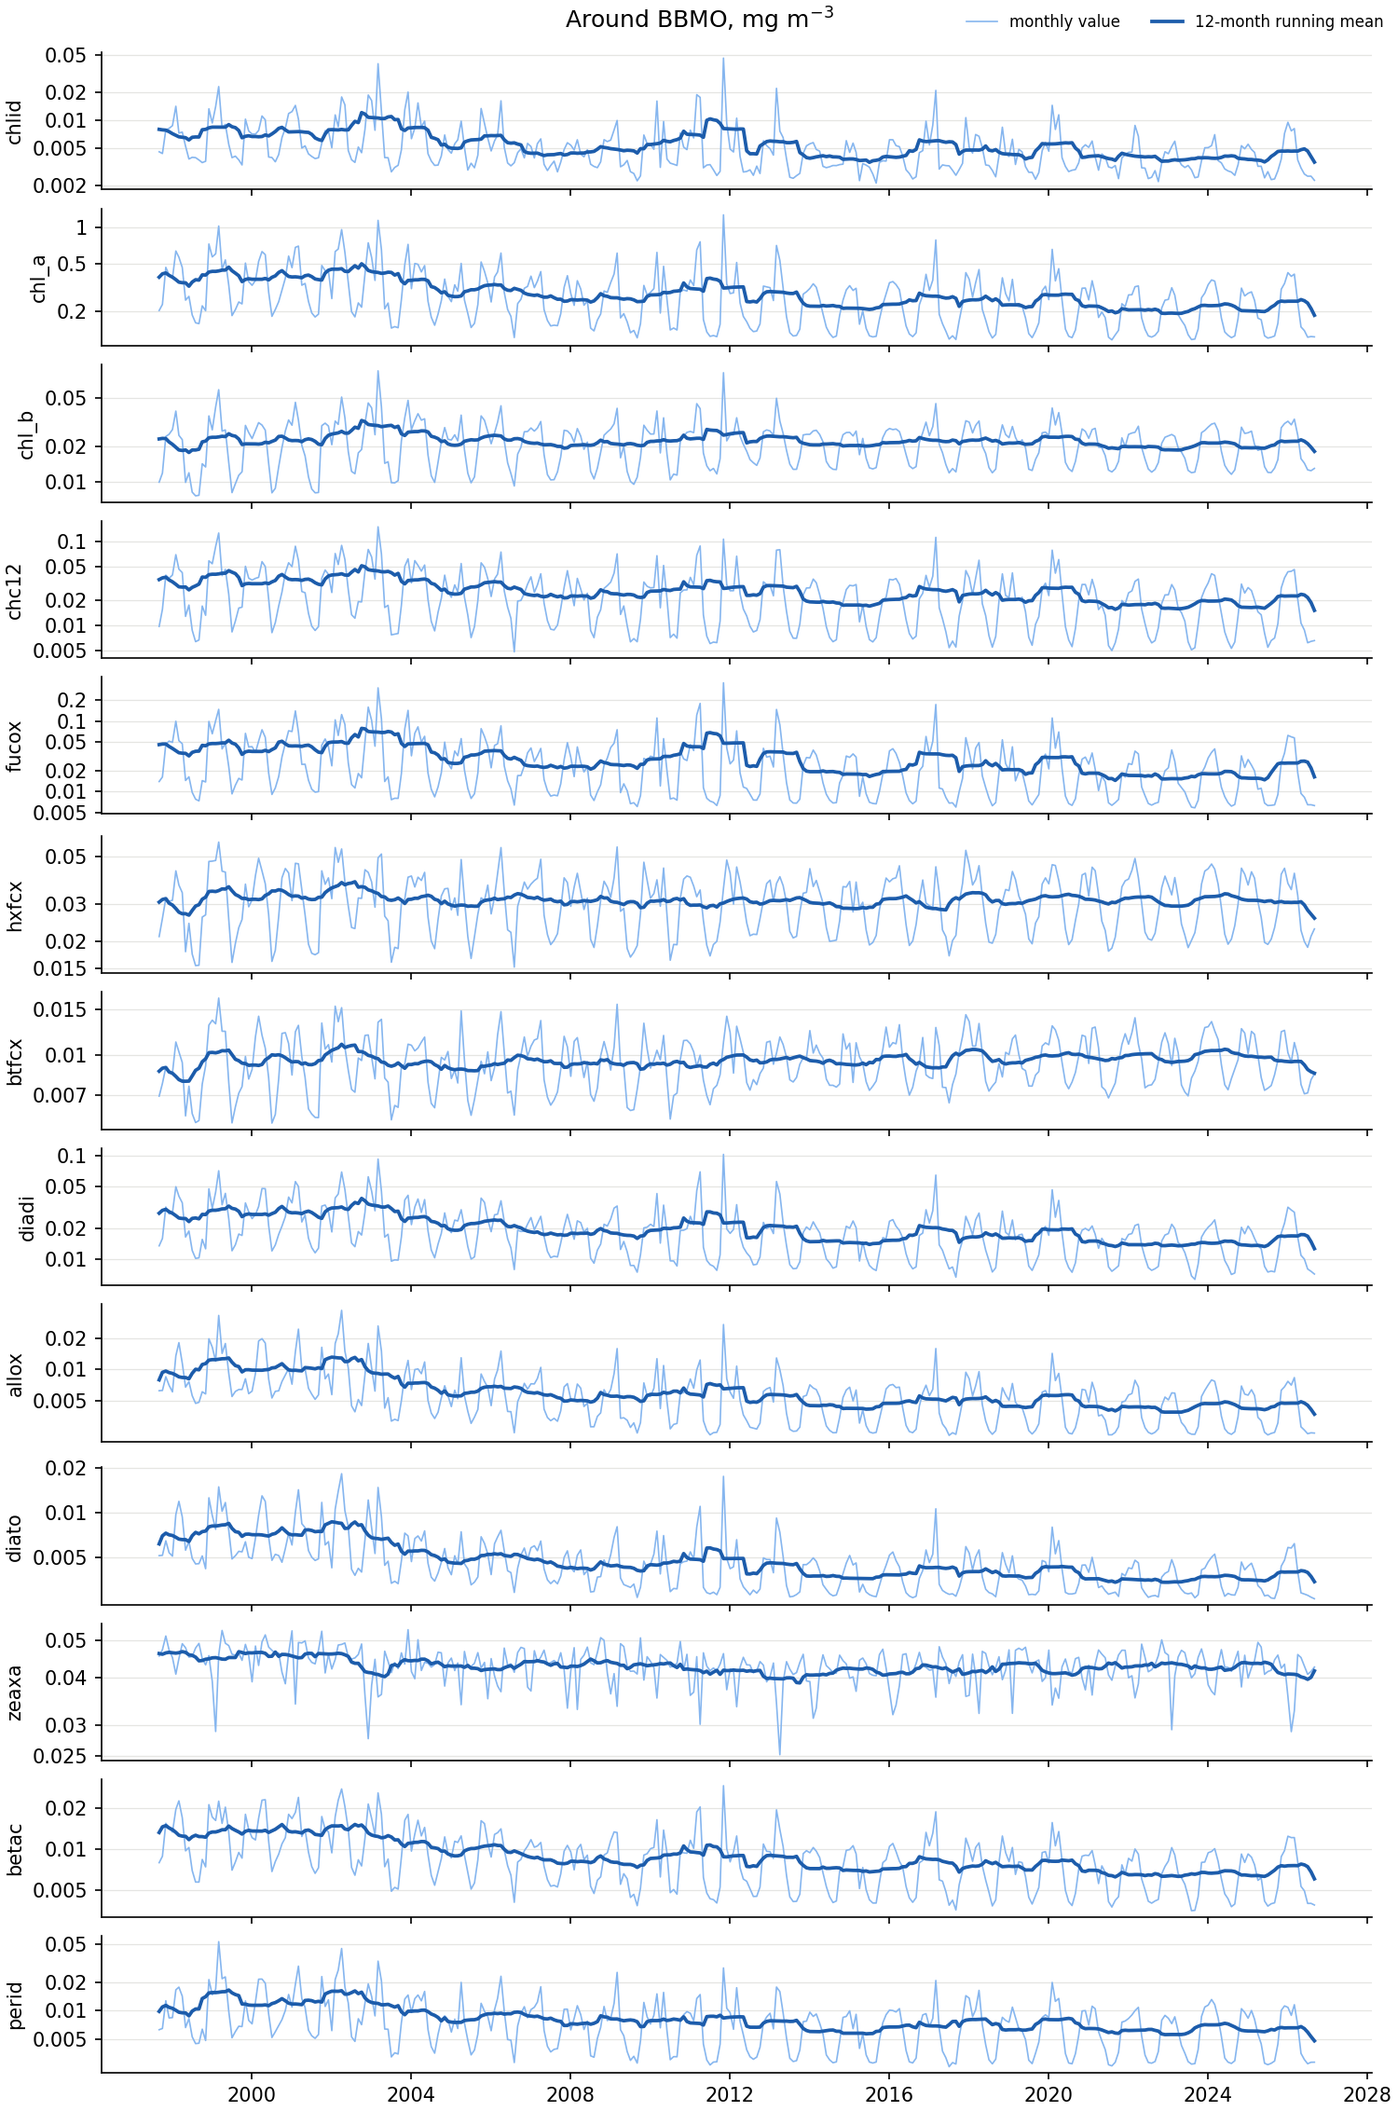
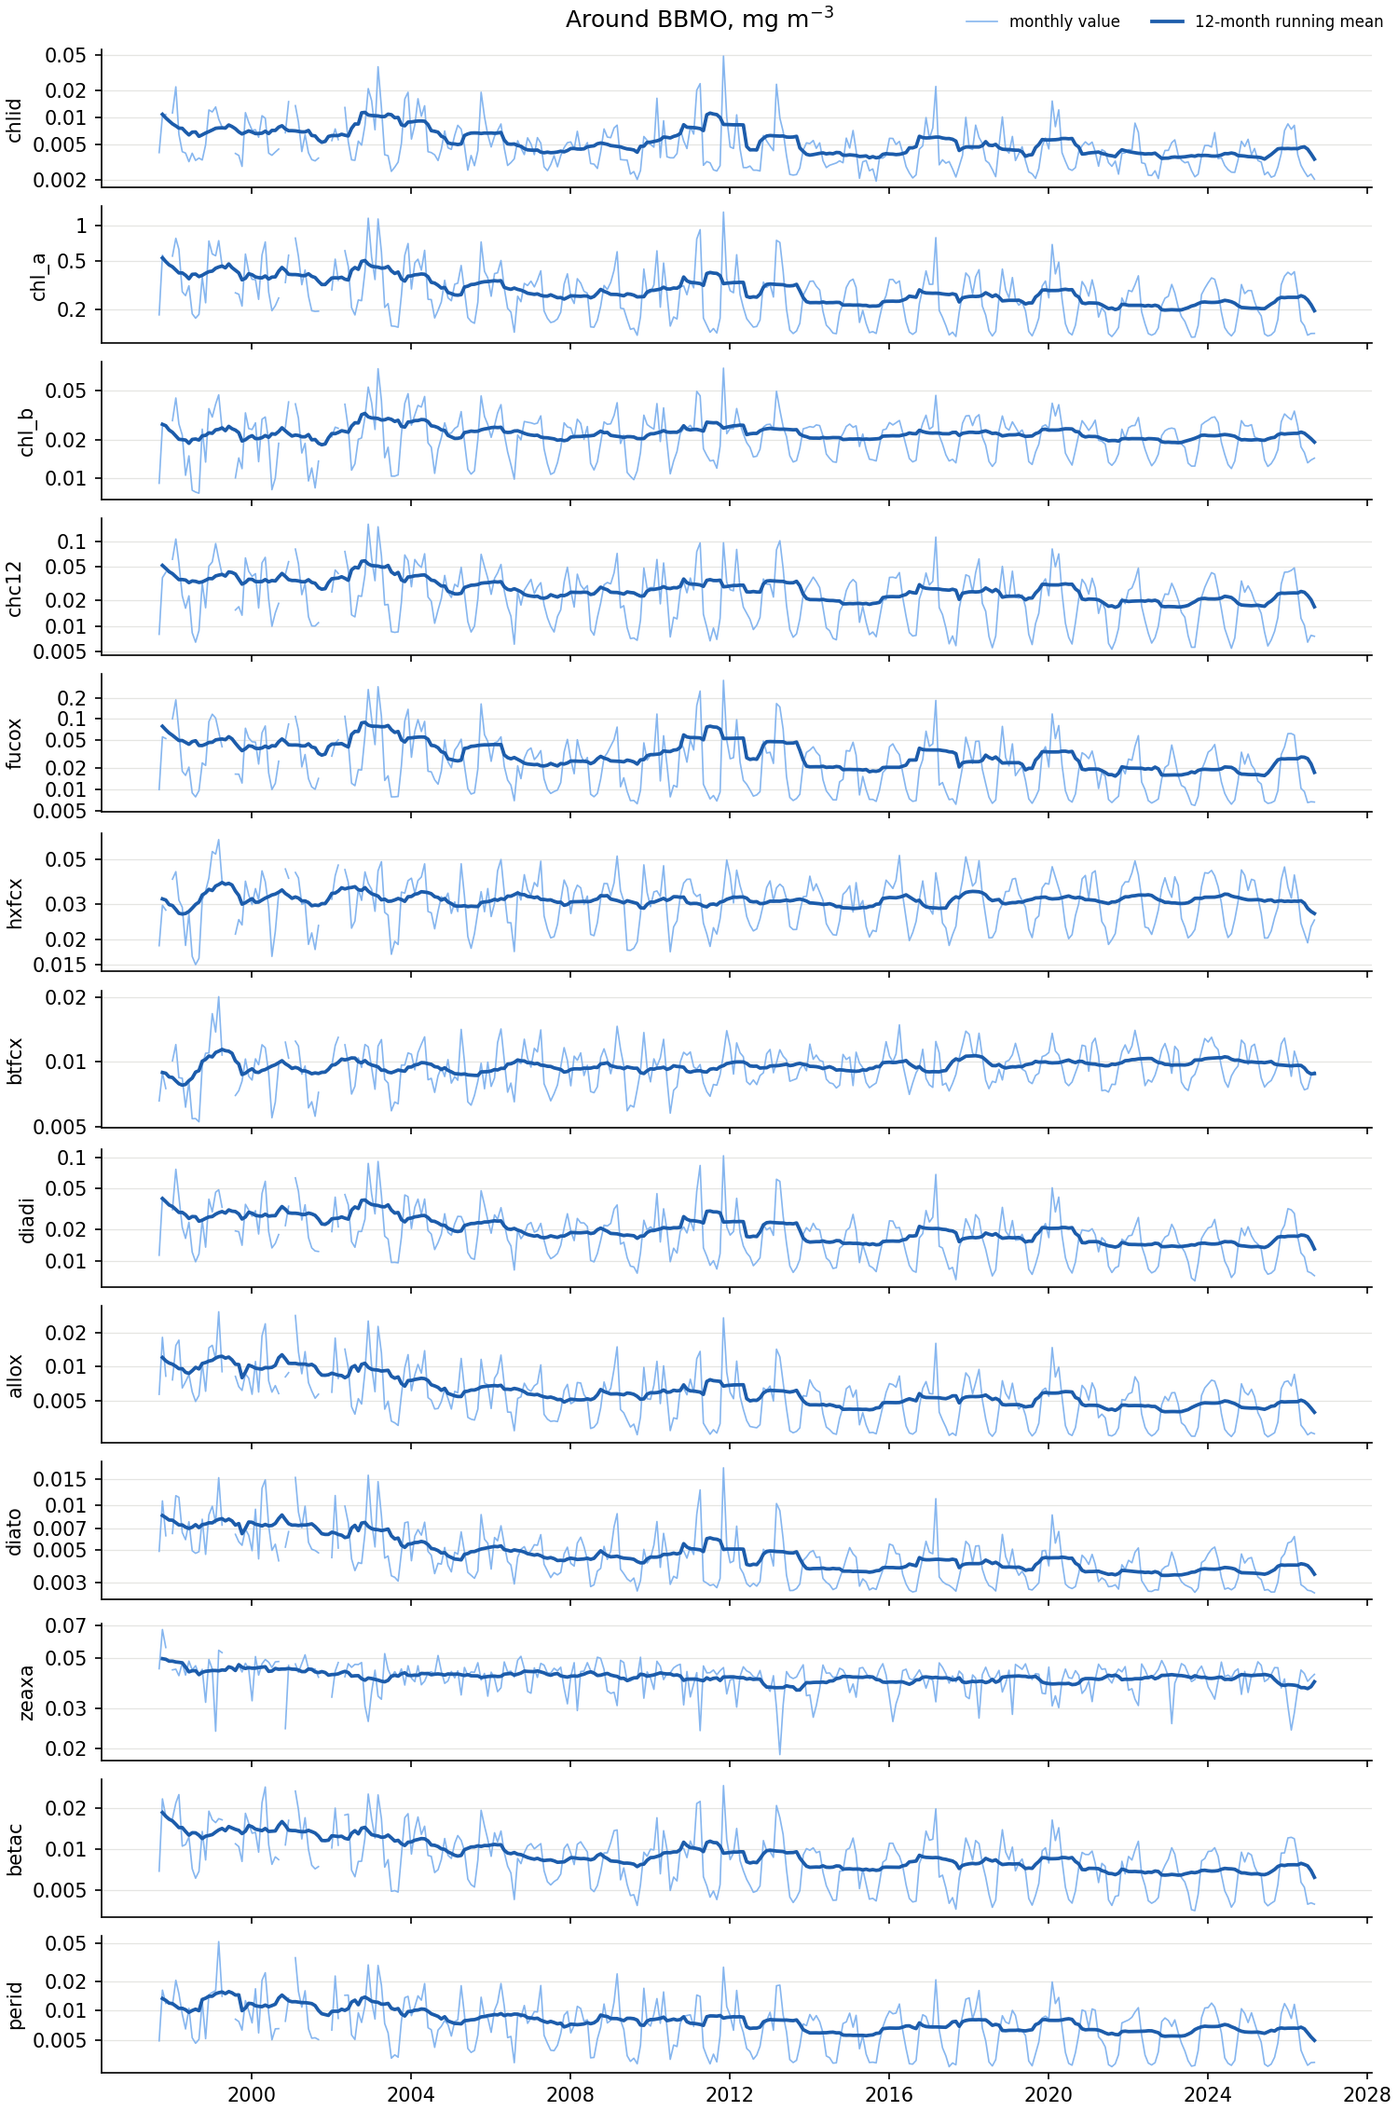
Update the analysis and the README with the new results

diff --git a/task4/README.md b/task4/README.md
@@ -23,14 +23,15 @@ limit the trends and the composition signal.
 ## 1. Data and methods
 
 - **Areas**: two regions of monthly maps, the NW Mediterranean (40.5–43.5 N, 1.5–5.5 E) and the
-  Balearic Islands (38.55–40.2 N, 1.1–4.5 E); and four stations, each with the 11 × 9 pixels (about
-  11 × 10 km) around it: BBMO (Blanes Bay), SOLA and MOLA (Banyuls-sur-Mer, coastal and offshore)
+  Balearic Islands (38.55–40.2 N, 1.1–4.5 E); and four stations, each with the 5 × 5 pixels (about
+  5 × 5 km) around it: BBMO (Blanes Bay), SOLA and MOLA (Banyuls-sur-Mer, coastal and offshore)
   and VIDA (Vida buoy, Gulf of Trieste).
 - **Pigments**: the 13 pigments of the Task 1 model fine-tuned with satellite matchups, on the
   monthly means of the daily 1 km multi-sensor Rrs and on the daily cubes of the stations
   ([Task 1](../task1/README.md)), checked against HPLC samples at the stations.
 - **Plankton groups**: Synechococcus and Bathycoccus (pico, psbO), the PETRIMED models (Ramond et
-  al., 2026) that hold from the satellite pigments once harmonized ([Task 2](../task2/README.md)).
+  al., 2026) that hold from the satellite pigments once their composition is corrected
+  ([Task 2](../task2/README.md)).
 - **Statistics**: months averaged from fewer than 3 days are left out; a region's value is the
   median of its pixels, a station's the median of its pixels and days; trends are log-linear fits
   of the annual values from 2003 to 2025 (see 3 for why 2003); the principal components are those
@@ -78,9 +79,9 @@ are the stations.*
 
 **2.3. Winter around the Balearic Islands, late winter in Catalonia, autumn in the Gulf of
 Trieste.** At BBMO, SOLA and MOLA almost every pigment peaks between January and March and is
-lowest in July–August, except zeaxanthin. Fucoxanthin varies 4 to 16 times over the year,
+lowest in July–August, except zeaxanthin. Fucoxanthin varies 4 to 18 times over the year,
 zeaxanthin only 1.2 to 1.4 times (peak in May), so the zeaxanthin share of chlorophyll a triples in
-summer (BBMO 0.11 → 0.32) while the fucoxanthin share halves. The BBMO HPLC series shows the same
+summer (BBMO 0.11 → 0.31) while the fucoxanthin share halves. The BBMO HPLC series shows the same
 winter–spring maxima and summer minima (Nunes et al., 2018).
 
 Around the Balearic Islands the pigments peak in January, two months before the NW Mediterranean
@@ -114,10 +115,10 @@ the Balearic Islands.** Trends from 2003 to 2025, in % per decade (n.s.: not sig
 |---|---|---|---|
 | NW Mediterranean (region) | −8 | −18 | +5 |
 | Balearic Islands (region) | −5 | −12 | +2 |
-| BBMO | −19 | −32 | 0 (n.s.) |
-| SOLA | −17 | −22 | −2 (n.s.) |
-| MOLA | −9 | −19 | +4 |
-| VIDA | −4 (n.s.) | +2 (n.s.) | −7 |
+| BBMO | −19 | −32 | −2 (n.s.) |
+| SOLA | −19 | −24 | −4 (n.s.) |
+| MOLA | −10 | −20 | +4 |
+| VIDA | −4 (n.s.) | +3 (n.s.) | −7 |
 
 Chlorophyll a and fucoxanthin fall in both regions and at the three Catalan and French stations, most
 at the coast (BBMO, SOLA) and least around the Balearic Islands; the decline is significant in
@@ -133,31 +134,32 @@ disagreement: Martínez-Fornos et al. find green algae falling, while the share 
 here rises slightly (4% per decade in the NW Mediterranean, 2% around the Balearic Islands).
 
 **2.5. VIDA: years set by the rivers, no trend.** Around VIDA the annual chlorophyll a varies from
-0.51 to 1.09 mg m⁻³. The lowest years, 2022 and 2023, follow the severe drought of 2022 in northern
-Italy, and the highest are 2001, 1998 and 2010: satellite chlorophyll in the north Adriatic follows
+0.49 to 1.10 mg m⁻³. The lowest years, 2022 and 2023, follow the severe drought of 2022 in northern
+Italy, and the highest are 2001, 1998 and 2000: satellite chlorophyll in the north Adriatic follows
 the river discharge (Vona et al., 2025). From 2003 to 2025 chlorophyll a has no significant trend
 (−4% per decade, p = 0.4), as Martínez-Fornos et al. (2026) find for the north Adriatic. The
 oligotrophication of the north Adriatic measured in situ (Mozetič et al., 2010) was strongest in the
-decade to 2007, so part of the drop of chlorophyll a between 1998–2002 and 2003–2007 here (−28%) may
+decade to 2007, so part of the drop of chlorophyll a between 1998–2002 and 2003–2007 here (−29%) may
 be real.
 
 **2.6. Plankton groups: Synechococcus follows low chlorophyll (provisional).** Of the PETRIMED
 plankton groups, only Synechococcus holds from the satellite pigments (Task 2). Around the three NW
-Mediterranean stations it peaks in July and is 2.4–2.6 times lower in winter, as observed at BBMO
-(peak in August), and its monthly values follow the satellite share of zeaxanthin (r = 0.56–0.71).
-But the satellite zeaxanthin barely varies (coefficient of variation 0.11–0.16 at the stations,
-against 0.43–0.59 for chlorophyll a), so its share is almost the inverse of chlorophyll a (r = −0.96
-to −0.97): the indicator is mostly a low-chlorophyll, oligotrophy signal. It holds because
+Mediterranean stations it peaks in July–August and is 1.7–3.3 times lower in December–March, as
+observed at BBMO (peak in August), and its monthly values follow the satellite share of zeaxanthin
+(r = 0.80–0.87). But the satellite zeaxanthin barely varies (coefficient of variation 0.14–0.18 at
+the stations, against 0.44–0.62 for chlorophyll a), so its share is almost the inverse of
+chlorophyll a (r = −0.96): the indicator is mostly a low-chlorophyll, oligotrophy signal. It holds because
 Synechococcus follows that signal too: at BBMO the observed Synechococcus goes with the HPLC share of
 zeaxanthin (r = 0.53) and against chlorophyll a (r = −0.28). Bathycoccus peaks in winter (November
 to April), like the prasinophytes at BBMO (Nunes et al., 2018), but the maps put it offshore rather
-than on the coast, so only its seasonal cycle is usable. From 2003 to 2025 Synechococcus does not
-change over the regions (+1% per decade in the NW Mediterranean, 0% around the Balearic Islands)
-and Bathycoccus falls 3–4% per decade (significant in the NW Mediterranean only), while at BBMO
-Synechococcus falls 16% per decade. At VIDA, Synechococcus peaks in May and goes against the
-zeaxanthin share (r = −0.66), a sign that the models, made in the NW Mediterranean, do not hold
-there. The VIDA metabarcoding of [Task 3](../task3/README.md) agrees: the observed share of
-Synechococcus is lower in May than in March, July and autumn.
+than on the coast, and even its seasonal cycle is only weakly checked (r = 0.34 at BBMO). From
+2003 to 2025 Synechococcus rises 2% per decade in the NW Mediterranean and 4% at MOLA, and
+Bathycoccus falls 5% per decade in the NW Mediterranean; around the Balearic Islands neither
+changes significantly. These trends change with the details of the method (with the earlier
+window and correction, Synechococcus fell 16% per decade at BBMO, against +3% now), so they are
+not robust, unlike the seasonal cycle. At VIDA, Synechococcus peaks in June and does not follow the
+zeaxanthin share (r = −0.26): the models, made in the NW Mediterranean, do not hold there, as the
+VIDA metabarcoding of [Task 3](../task3/README.md) confirms.
 
 <p>
   <img src="report/psts_nw_mediterranean_periods.png" width="49%"
@@ -171,8 +173,8 @@ four periods (left) and monthly around BBMO (right).*
 
 ## 3. Limits
 
-- *A step in 2002–2003.* From 1998–2002 to 2003–2007, chlorophyll a drops 12–28% at the four
-  stations (alloxanthin up to 44%), and offshore zeaxanthin jumps in both regions (+17% for the
+- *A step in 2002–2003.* From 1998–2002 to 2003–2007, chlorophyll a drops 13–29% at the four
+  stations (alloxanthin up to 46%), and offshore zeaxanthin jumps in both regions (+17% for the
   regional median in the NW Mediterranean, +11% around the Balearic Islands). It coincides with
   MODIS-Aqua and MERIS joining SeaWiFS, despite the inter-sensor correction of the product (Volpe et
   al., 2019), so the trends above start in 2003.
@@ -182,13 +184,14 @@ four periods (left) and monthly around BBMO (right).*
   does a quarter of the NW Mediterranean summer: clear summer waters are overestimated and their
   trends damped.
 - *Composition at the coast.* Against the HPLC samples of the stations (Task 1), the satellite
-  chlorophyll a follows well (r = 0.78, R² = 0.33) but zeaxanthin does not (r = −0.04), the
+  chlorophyll a follows well (r = 0.77, R² = 0.39) but zeaxanthin does not (r = −0.06), the
   haptophyte and pelagophyte pigments only weakly and at half their HPLC values or less (r =
-  0.37–0.45), and the highest values are missed: the composition signal of 2.1 is weaker at the
-  coast than the biomass signal. There are no HPLC samples around the Balearic Islands to check
-  them there.
-- *Few clear coastal pixels.* There are satellite data on 13% of the pixel-days around SOLA and 17%
-  around BBMO, against 26% at VIDA and 49% at MOLA.
+  0.36–0.43), and the highest values are missed: the composition signal of 2.1 is weaker at the
+  coast than the biomass signal. The concentrations at the coast are too low and vary less than in
+  situ, which damps trends and seasonal amplitudes without changing their sign or timing. There are no
+  HPLC samples around the Balearic Islands to check them there.
+- *Few clear coastal pixels.* There are satellite data on 7% of the pixel-days around SOLA (a
+  monthly value in 296 of 349 months) and 12% around BBMO, against 30% at VIDA and 49% at MOLA.
 
 <p align="center">
   <img src="report/nw_mediterranean_zeaxa_years.png" width="80%"

diff --git a/README.md b/README.md
@@ -20,7 +20,7 @@ them: those of [pigment-retrieval-from-olci](https://github.com/Kissyfur/pigment
 |---|---|---|---|
 | 1 | Pigment concentrations from radiometry | Model and paper; applied to the satellite record and checked against HPLC | [task1](task1/README.md) |
 | 2 | Plankton groups from pigments | PETRIMED models, tested away from SOLA and on satellite pigments; the biodiversity indicator is to come | [task2](task2/README.md) |
-| 3 | Plankton groups at VIDA from metabarcoding (about monthly, 2021–2023) | Data and description | [task3](task3/README.md) |
+| 3 | Plankton groups at VIDA from metabarcoding (about monthly, 2021–2023) | Data, description and validation of the chain of Tasks 1 and 2 | [task3](task3/README.md) |
 | 4 | Satellite radiometry → pigments → diversity, 1997 to today | Analysis and technical note (draft) | [task4](task4/README.md) |
 
 ## Files
@@ -29,7 +29,7 @@ them: those of [pigment-retrieval-from-olci](https://github.com/Kissyfur/pigment
 |---|---|---|---|---|
 | 1 | [task1/README.md](task1/README.md) | [download_monthly_means.py](task1/scripts/download_monthly_means.py), [station_matchups.py](task1/scripts/station_matchups.py), [predict_pigments.py](task1/scripts/predict_pigments.py), [hplc_check.py](task1/scripts/hplc_check.py) | [med_radiometry_monthly.yaml](task1/configs/med_radiometry_monthly.yaml), [station_matchups.yaml](task1/configs/station_matchups.yaml) | [task1/report](task1/report/) |
 | 2 | [task2/README.md](task2/README.md) | [export_models.R](task2/scripts/export_models.R), [psts.py](task2/scripts/psts.py), [predict_psts.py](task2/scripts/predict_psts.py) | [PETRIMED](https://github.com/pjmramond/PETRIMED) (cloned into `task2/PETRIMED`) | [task2/report](task2/report/) |
-| 3 | [task3/README.md](task3/README.md) | [describe_vida.py](task3/scripts/describe_vida.py) | [VIDA_PST.xlsx](task3/VIDA_PST.xlsx) | [task3/report](task3/report/) |
+| 3 | [task3/README.md](task3/README.md) | [describe_vida.py](task3/scripts/describe_vida.py), [validate_chain.py](task3/scripts/validate_chain.py) | [VIDA_PST.xlsx](task3/VIDA_PST.xlsx) | [task3/report](task3/report/) |
 | 4 | [task4/README.md](task4/README.md) (technical note) | [figures.py](task4/scripts/figures.py) | the outputs of Tasks 1 and 2 | [task4/report](task4/report/) |
 
 ## Installation
@@ -74,8 +74,9 @@ python task2/scripts/predict_psts.py
 python task1/scripts/hplc_check.py
 python task4/scripts/figures.py
 
-# Task 3: description of the VIDA data (independent of the others)
+# Task 3: description of the VIDA data, and validation of the chain of Tasks 1 and 2
 python task3/scripts/describe_vida.py
+python task3/scripts/validate_chain.py
 ```
 
 ## Main results
@@ -84,22 +85,26 @@ python task3/scripts/describe_vida.py
 - The 13 pigments for every month of the 1 km multi-sensor record, 1997–2026, over the NW
   Mediterranean and the Balearic Islands, and for every day around four stations: BBMO, SOLA and
   MOLA on the Catalan and French coast, and VIDA in the Gulf of Trieste.
-- Against the 196 HPLC samples of SOLA, BBMO and MOLA (station cubes, sampling day ±7 days), the
-  satellite pigments rise and fall with the HPLC ones (r = 0.78 for chlorophyll a and 0.76 for
-  fucoxanthin, on ln values) but are biased, so R², the metric of the paper, is at most 0.33:
+- Against the 196 HPLC samples of SOLA, BBMO and MOLA (5 × 5 pixels around the station, sampling
+  day ±7 days), the satellite pigments rise and fall with the HPLC ones (r = 0.77 for chlorophyll a
+  and fucoxanthin, on ln values) but are biased, so R², the metric of the paper, is at most 0.39:
   fucoxanthin and the haptophyte and pelagophyte pigments come out at half the HPLC values or less,
-  and zeaxanthin about five times higher, without following the HPLC one. Bloom peaks are missed.
+  and zeaxanthin about five times higher, without following the HPLC one.
+- The underestimation is coastal and grows with concentration (13–21% of HPLC for those pigments in
+  the SOLA blooms, nearly unbiased offshore at MOLA). It damps trends and seasonal amplitudes
+  without changing their sign or timing, and it distorts the composition that Task 2 uses.
 - The CNN of the record, fine-tuned with satellite matchups, is the best of the Task 1 CNNs at the
-  stations. A window of ±7 days around the sample matters more than a larger area, which only adds
-  offshore water.
+  stations. Small windows (5 km) and ±7 days around the sample work best: larger areas add offshore
+  water.
 
 **Task 2 — Plankton groups from pigments** ([details](task2/README.md); provisional)
 - The PETRIMED models (Ramond et al., 2026) run in Python with the same results as in R. Trained
   at SOLA, only 4 of the 18 psbO plankton groups keep r ≥ 0.5 at BBMO: Micromonas, Synechococcus,
   Pelagophyceae and Bathycoccus.
-- From the satellite pigments none holds until their composition is harmonized with the HPLC one;
-  then Synechococcus does (r = 0.62 monthly, 0.89 for the seasonal cycle), mostly as a
-  low-chlorophyll signal.
+- From the satellite pigments none holds until their composition is corrected: each pigment share
+  times one factor, the ratio of its median HPLC share to its median satellite share (fucoxanthin
+  × 4.3, zeaxanthin × 0.19). Then Synechococcus holds (r = 0.56 monthly, 0.87 for the seasonal
+  cycle), mostly as a low-chlorophyll signal.
 - The biodiversity indicator of PETRIMED is still to come; this task will be rewritten with it.
 
 **Task 3 — Plankton groups at VIDA** ([details](task3/README.md))
@@ -108,8 +113,11 @@ python task3/scripts/describe_vida.py
 - Synechococcus is 15% of the prokaryotes on average, lowest in December (1–4%) and highest in
   July and October–November (up to 50%). Diatoms are the main photosynthetic eukaryotes (5% of the
   eukaryotes on average, up to 14%), without a regular season.
-- The satellite predictions of Task 4 put the maximum of Synechococcus at VIDA in May, when its
-  observed share is lower than in March, July and autumn: the Task 2 models do not hold there.
+- As a validation of the chain of Tasks 1 and 2, the PETRIMED metabarcoding models, in the units
+  of the VIDA data, were applied to the satellite pigments of each sample's month. They do not follow
+  most groups (Synechococcus r = −0.17 or 0.48 depending on the fraction of the models, diatoms
+  0.13–0.36, dinoflagellates predicted 8–27 times too high); only MOCH does (r = 0.56–0.76). This
+  agrees with the low transferability of the models between ecosystems.
 
 **Task 4 — 25 years of satellite records** ([technical note](task4/README.md))
 - The satellite pigments carry two signals, biomass and one axis of composition (haptophyte and
